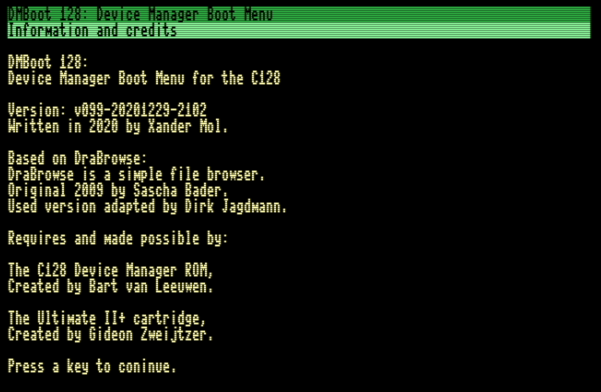
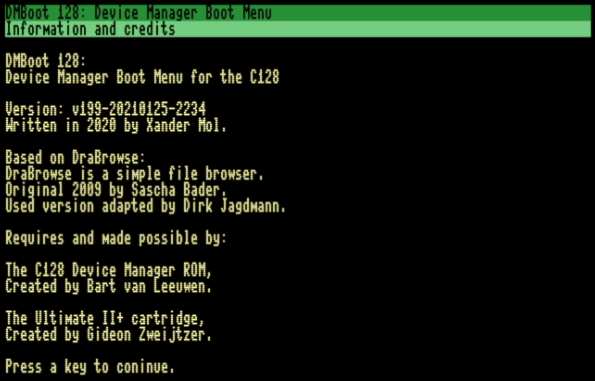
Updated sceenshots for 1.99 version

Changed region(s): [[0.0, 0.3753, 0.484, 0.9816], [0.0, 0.0, 0.9983, 0.231], [0.0, 0.2598, 0.3933, 0.3465]]

diff --git a/src/main.c b/src/main.c
@@ -761,7 +761,7 @@ void information()
     cputs("The Ultimate II+ cartridge,\n\r");
     cputs("Created by Gideon Zweijtzer.\n\n\r");
 
-    cputs("Press a key to coninue.");
+    cputs("Press a key to continue.");
 
     getkey(2);    
 }

diff --git a/README.md b/README.md
@@ -8,6 +8,17 @@ https://github.com/xahmol/DMBoot
 
 https://www.idreamtin8bits.com/
 
+### Changelog
+
+**Version v199-20210125-2234 :**
+
+Link to build of version: 
+
+* Menuslots now are stored in bank 1 memory, giving much more available memory, enabling all other changes below
+* Increased possible number of memory slots from 10 to 36, accessable via 0-9 and a-z keys (suggested by Bart van Leeuwen ). Visible in two columns in 80 column mode, in 40 column mode only the first 15 options are shown (did not go for scrolling, at least not yet). Suggest to use therefore the right column for 80 column suported programs.
+* Made the other options available via Function-keys (as the letter keys are now taken by the extra menu slots)
+* Added option to add a user defined command to each menuslot (e.g. a partition change, a POKE or anything else you can imagine as long as it runs from the BASIC prompt with one enter, fits in 100 chars and does not give screen output other than the READY prompt (suggested by Bob Grimes) 
+
 ### Instructions
 
 **NB:** Instruction screenshots are taken from VICE emulator for practical reasons, so not showing real devices.
@@ -109,16 +120,18 @@ https://www.idreamtin8bits.com/
 
 * **E** enables renaming a menuslot
   
+
 ![](https://github.com/xahmol/DMBoot/raw/main/pictures/dmboot%20-%20rename.png)
-  
+
 Choose slot to be renamed by pressing **0-9**. Enter new name. Enter to confirm.
-  
+
 * **R** enables re-ordering menu slots
   
+
 ![](https://github.com/xahmol/DMBoot/raw/main/pictures/dmboot%20-%20reorder.png)
-  
+
 Choose slot to be re-ordered by pressing **0-9**. Selected menu slot is highlighted white. Move option by pressing **UP** or **DOWN**. Confirm by **ENTER**. Cancel with **Q**.
-  
+
 * **D** enables deleting a menu slot
   
   ![](https://github.com/xahmol/DMBoot/raw/main/pictures/dmboot%20-%20delete.png)
